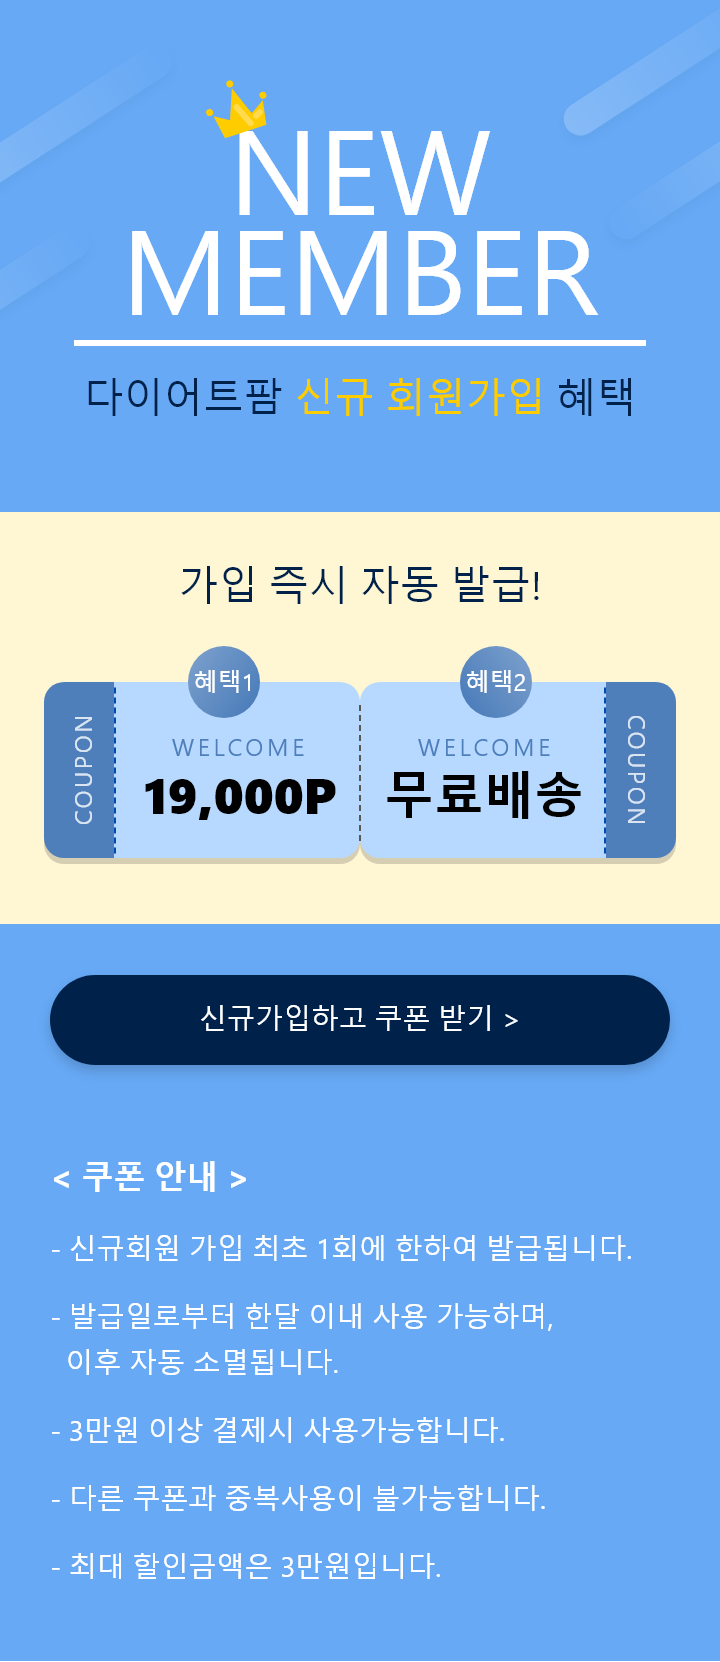
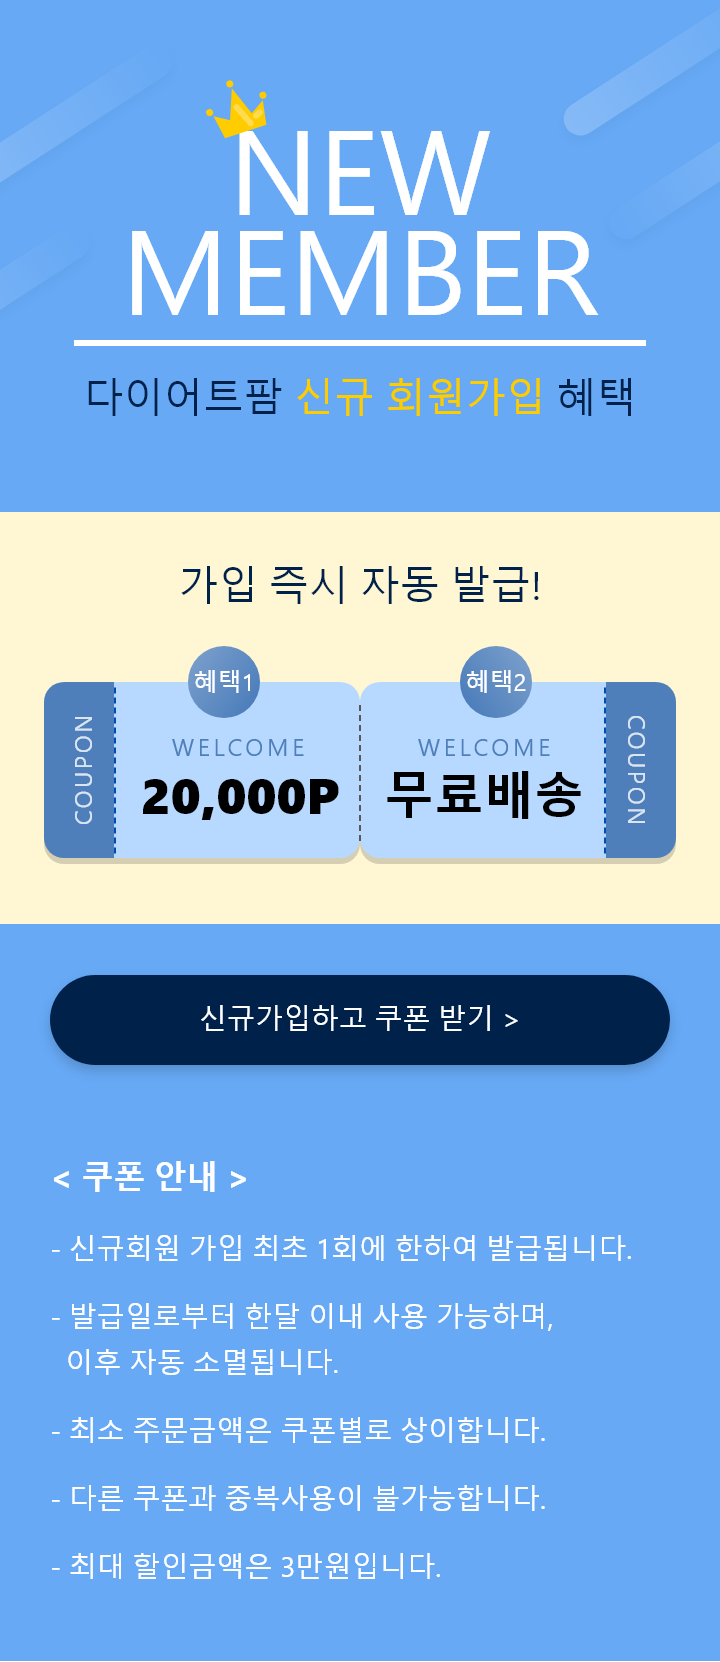
수정

diff --git a/public/js/components/installAppModal.js b/public/js/components/installAppModal.js
@@ -1,8 +1,6 @@
 var installAppTemplate = '';
-
-installAppTemplate += '<div class="popUp">'
 installAppTemplate += '<div class="popup_layer_wrapper" id="popup-cookie">'
-installAppTemplate += ' <div class="popup_box">'
+installAppTemplate += '<div class="popup_box">'
 installAppTemplate += '<div class="popup_cont">'
 installAppTemplate += '    <div class="index-modal">'
 installAppTemplate += '        <div class="sale_coupon"><img src="/images/app_deit_farm_logo@2x.png" style="width:72px;height:72px">'
@@ -11,9 +9,8 @@ installAppTemplate += '        </div>'
 installAppTemplate += '        <a href="https://dietfarm.page.link/pzok">'
 installAppTemplate += '            <p class="app02">다이어트팜 앱으로 보기 ></p>'
 installAppTemplate += '        </a>'
-installAppTemplate += '        <p><span><a href="javascript:;" onclick="closePopup();" id="check">모바일웹으로 볼게요.</a></span></p>'
+installAppTemplate += '        <p><span><a href="javascript:;" onclick="todaycloseWin();">모바일웹으로 볼게요.</a></span></p>'
 installAppTemplate += '    </div>'
-installAppTemplate += '</div>'
 installAppTemplate += '</div>'
 installAppTemplate += '</div>'
 installAppTemplate += '</div>'
@@ -22,13 +19,35 @@ installAppTemplate += '</div>'
 var installAppModal = {
     template: installAppTemplate,
     methods: {
-        todaycloseWin: function() {
+        
+        closePopupModal: function() {
             app.installModal = false;
-            setCookie("ncookie", "done", 1);
-            document.getElementById('popUp').style.display = "none";
+            console.log(app.installModal);
             scrollAllow();
         }
+ 
     }
 }
-     
 
+$( document ).ready(function() {
+    cookiedata = document.cookie;
+    console.log(cookiedata);
+    if ( cookiedata.indexOf("mcookie=done") < 0 ){
+        console.log('cookie 없음')
+        document.getElementById('popup-cookie').style.display = 'block';
+    } else {
+        console.log("cookie 있음")
+        document.getElementById('popup-cookie').style.display = 'none';
+    }
+});
+function setCookie( name, value, expiredays ) { 
+    var todayDate = new Date();
+    todayDate.setDate( todayDate.getDate() + expiredays );
+    document.cookie = name + "=" + escape( value ) + "; path=/; expires=" + todayDate.toGMTString() + ";"
+}
+
+function todaycloseWin() {
+    setCookie("mcookie", "done", 1);
+    document.getElementById('popup-cookie').style.display = 'none';
+    scrollAllow();
+}

diff --git a/public/js/mypage/signModal.js b/public/js/mypage/signModal.js
@@ -6,7 +6,7 @@ signModalTemplate += '<span class="close" @click="closeModal()">&times;</span>';
 signModalTemplate += '<div class="signup_wrap">';
 signModalTemplate += '<h2>SNS 계정으로 시작하기</h2>';
 signModalTemplate += '<p style="color:#6B6B6B">1초 간편 회원가입 후, </p>';
-signModalTemplate += '<p class="line02"><span>포인트쿠폰팩 + 무료배송쿠폰 </span> 혜택을 받아보세요!</p>';
+signModalTemplate += '<p class="line02"><span>20,000P + 무료배송 쿠폰 </span> 혜택을 받아보세요!</p>';
 signModalTemplate += '<p class="line03">3만원 이상 주문 시 쿠폰 사용 가능</p>';
 signModalTemplate += '<div class="signup_btn">';
 signModalTemplate += '<button type="button" class="btnKakao" onclick="loginWithKakaoApi()"><img src="/images/kakao_login@2x.png">카카오 계정으로 시작하기</button>';

diff --git a/public/css/common.css b/public/css/common.css
@@ -3983,7 +3983,7 @@ input#secret[type="checkbox"]:checked+.secret::before {
 }
 .footer_sns {
   width: 70%;
-  margin: 0 auto;
+  margin-left:-20px;
   margin-bottom: 25px
 }
 .footer_sns ul {

diff --git a/public/js/index.js b/public/js/index.js
@@ -6,6 +6,7 @@ var app = new Vue({
     el: 'main',
     data: {
         timedealProductList: [],
+        installModal: false,
 
     },
     components: {
